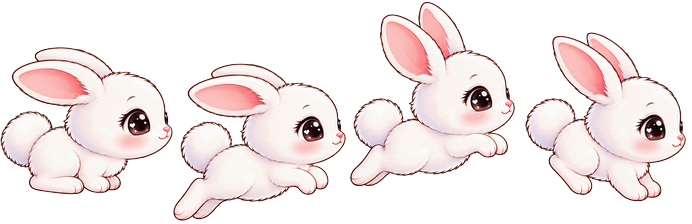
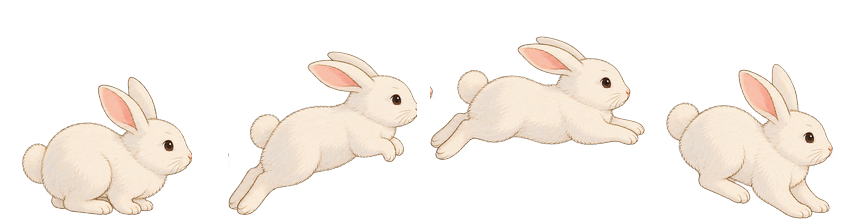
Ghibli-style bunny art; keep Google token across reloads

diff --git a/index.html b/index.html
@@ -90,9 +90,9 @@ main{background:var(--panel);border-radius:24px 24px 0 0;margin-right:12px;displ
 .tev b{display:block;font-weight:normal;white-space:nowrap;overflow:hidden;text-overflow:ellipsis}
 .now{position:absolute;left:0;right:0;height:2px;background:#ea4335;z-index:3}
 .now::before{content:"";position:absolute;left:-6px;top:-5px;width:12px;height:12px;border-radius:50%;background:#ea4335}
-#bunny{position:fixed;left:0;top:0;width:87px;height:112px;pointer-events:none;z-index:50;will-change:transform;filter:drop-shadow(0 4px 3px #0006)}
-#bunny .run{position:absolute;inset:0;background:url(img/hop.png) 0 0/346px 112px no-repeat}
-#bunny .sleep{position:absolute;left:8px;bottom:0;width:72px;height:75px;transform-origin:50% 100%;display:none}
+#bunny{position:fixed;left:0;top:0;width:108px;height:112px;pointer-events:none;z-index:50;will-change:transform;filter:drop-shadow(0 4px 3px #0006)}
+#bunny .run{position:absolute;inset:0;background:url(img/hop.png) 0 0/430px 112px no-repeat}
+#bunny .sleep{position:absolute;left:6px;bottom:0;width:96px;height:75px;transform-origin:50% 100%;display:none}
 #bunny.zz .run{display:none}
 #bunny.zz .sleep{display:block}
 @media (prefers-reduced-motion:reduce){#bunny{display:none}}
@@ -399,7 +399,14 @@ function gAuth(){
     const id = GOOGLE_CLIENT_ID || store.get('cal.gclient', '');
     if (!window.google?.accounts) return rej(new Error('구글 로그인 스크립트를 불러오지 못했습니다'));
     gClient ??= google.accounts.oauth2.initTokenClient({client_id:id, scope:GSCOPE, callback:()=>{}});
-    gClient.callback = r => r.error ? rej(new Error(r.error)) : (gToken = r.access_token, res());
+    gClient.callback = r => {
+      if (r.error) return rej(new Error(r.error));
+      gToken = r.access_token;
+      // keep the 1-hour token across reloads (F5); it expires on its own
+      store.set('cal.gtoken', {t:gToken, exp:Date.now() + (r.expires_in - 60) * 1000});
+      store.set('cal.gon', true);
+      res();
+    };
     gClient.error_callback = e => rej(new Error(e.type));
     gClient.requestAccessToken({prompt:''});
   });
@@ -411,16 +418,19 @@ async function gFetch(path, opt = {}, retry = true){
   return r.status === 204 ? null : r.json();
 }
 
+let gConnecting = false;
 async function gConnect(){
-  if (gToken) return gSync(true).catch(gErr);
+  if (gToken && CALS.some(c => c.group === 'google')) return gSync(true).catch(gErr);
+  if (gConnecting) return;
   if (!GOOGLE_CLIENT_ID && !store.get('cal.gclient', '')){
     const id = prompt('구글 OAuth 클라이언트 ID를 붙여 넣으세요 (….apps.googleusercontent.com)');
     if (!id) return;
     store.set('cal.gclient', id.trim());
   }
+  gConnecting = true;
   try {
     setStatus('구글 연결 중…');
-    await gAuth();
+    if (!gToken) await gAuth();
     const list = await gFetch('/users/me/calendarList');
     const gc = list.items.map(c => ({id:'g:'+c.id, name:c.summaryOverride || c.summary, color:c.backgroundColor, group:'google',
       readonly: !['owner','writer'].includes(c.accessRole)}));
@@ -428,8 +438,19 @@ async function gConnect(){
     document.getElementById('gBtn').textContent = '↻ 동기화';
     await gSync(true);
   } catch (err) { gErr(err); }
+  finally { gConnecting = false; }
 }
 const gErr = err => setStatus('구글 오류: ' + err.message);
+
+// reconnect after a reload: reuse a saved token that is still valid; if it ran out,
+// fetch a new one on the first click (browsers only allow the sign-in popup from a click)
+function gResume(){
+  if (!store.get('cal.gon', false)) return;
+  const saved = store.get('cal.gtoken', null);
+  if (saved && saved.exp > Date.now()){ gToken = saved.t; gConnect(); return; }
+  setStatus('클릭하면 구글 다시 연결');
+  addEventListener('pointerdown', () => gConnect(), {once:true, capture:true});
+}
 
 // fetch the shown month ±1 month from every Google calendar
 async function gSync(force){
@@ -556,6 +577,7 @@ document.getElementById('todayBtn').onclick = () => { cur = new Date(today); min
 document.getElementById('mPrev').onclick = () => { mini = new Date(mini.getFullYear(), mini.getMonth()-1, 1); renderSide(); };
 document.getElementById('mNext').onclick = () => { mini = new Date(mini.getFullYear(), mini.getMonth()+1, 1); renderSide(); };
 document.getElementById('gBtn').onclick = gConnect;
+gResume();
 document.getElementById('createBtn').onclick = () => openEditor({start:ymd(today), end:ymd(today)});
 document.getElementById('search').oninput = e => { query = e.target.value.trim().toLowerCase(); render(); };
 document.querySelector('main').addEventListener('wheel', e => { if (view === 'month' && Math.abs(e.deltaY) > 40 && !bg.classList.contains('on')) go(e.deltaY>0?1:-1); }, {passive:true});
@@ -564,7 +586,7 @@ render();
 // ---------- bunny that hops after the mouse ----------
 (() => {
   const el = document.getElementById('bunny'), run = el.querySelector('.run'), sleep = el.querySelector('.sleep');
-  const W = 87, H = 112, PAD = 3, FRAMES = 4, SLEEP_AFTER = 1500;
+  const W = 108, H = 112, PAD = 3, FRAMES = 4, SLEEP_AFTER = 1500;
   let mx = innerWidth / 2, my = innerHeight / 2, x = mx, y = my, dir = 1, phase = 0, stillSince = performance.now();
   addEventListener('mousemove', e => { mx = e.clientX; my = e.clientY; });
   // events are obstacles: refresh their boxes a few times a second
@@ -608,7 +630,7 @@ render();
     } else {
       // 4 frames per hop (crouch, push, air, land); body sways side to side for the waddle
       const p = phase % (2 * Math.PI);
-      run.style.backgroundPositionX = -Math.floor(p / (2 * Math.PI) * FRAMES) * 86.5 + "px";
+      run.style.backgroundPositionX = -Math.floor(p / (2 * Math.PI) * FRAMES) * 107.5 + "px";
       lift = Math.sin(p / 2) * 14;
       tilt = Math.sin(phase / 2) * 6;
     }

diff --git a/README.md b/README.md
@@ -37,7 +37,7 @@ python -m http.server 8765
 
 알아 둘 점
 
-- 로그인 토큰은 1시간짜리이고 메모리에만 둔다. 새로고침하면 "구글 연결"을 다시 누른다.
+- 로그인 토큰은 1시간짜리이고 localStorage 에 둔다. 1시간 안에는 새로고침해도 다시 연결된다. 1시간이 지났으면 화면을 한 번 클릭할 때 새 토큰을 받는다(팝업이 잠깐 떴다 닫힌다).
 - 보고 있는 달과 앞뒤 1달씩, 3달 치 일정을 불러온다.
 - 이 달력의 일정에는 끝나는 시각이 없다. 새로 만든 구글 일정은 1시간짜리가 된다. 기존 구글 일정을 고치면 원래 길이를 지킨다(하루 안에 끝나는 일정일 때).
 - 반복 일정은 하나씩 따로 보이고, 고치면 그 한 번만 바뀐다.
@@ -46,4 +46,4 @@ python -m http.server 8765
 
 - 본문: [Pretendard](https://github.com/orioncactus/pretendard) 1.3.9, SIL OFL 1.1. jsDelivr CDN 으로 불러온다.
 - 제목: [Gaegu](https://fonts.google.com/specimen/Gaegu), SIL OFL 1.1. Google Fonts 로 불러온다.
-- `img/bunny.png`: ChatGPT 이미지 생성으로 그린 토끼를 128px 로 줄인 것이다. 마우스를 따라오고, 일정 칸은 피해서 다닌다.
+- `img/hop.png`, `img/sleep.png`: ChatGPT 이미지 생성으로 그린 토끼다. 뛰는 그림 4장과 조는 그림 1장이고, 높이 224px 로 줄였다. 토끼는 마우스를 따라오고, 일정 칸은 피해서 다니고, 1.5초 멈추면 존다.
